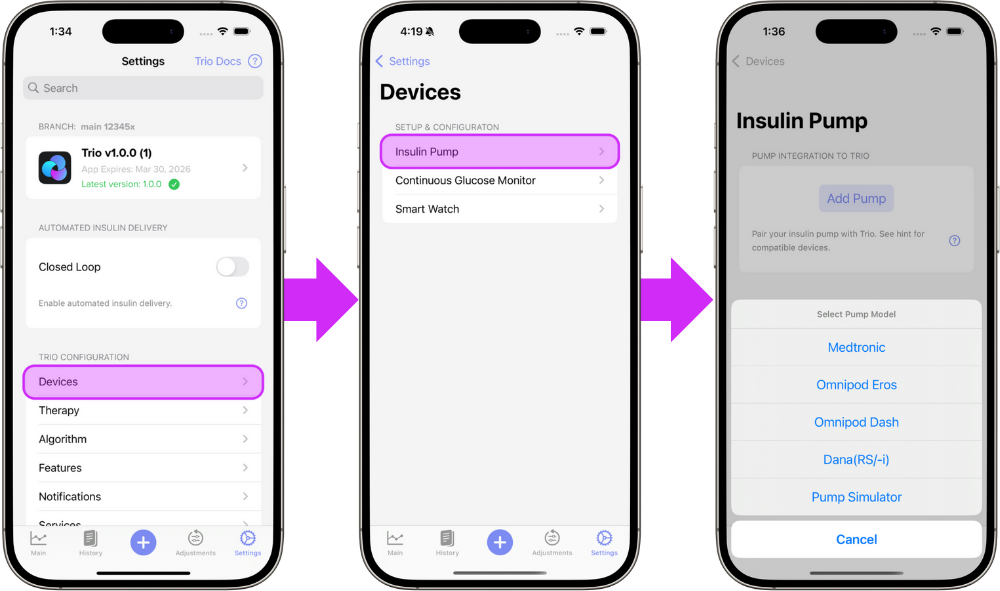
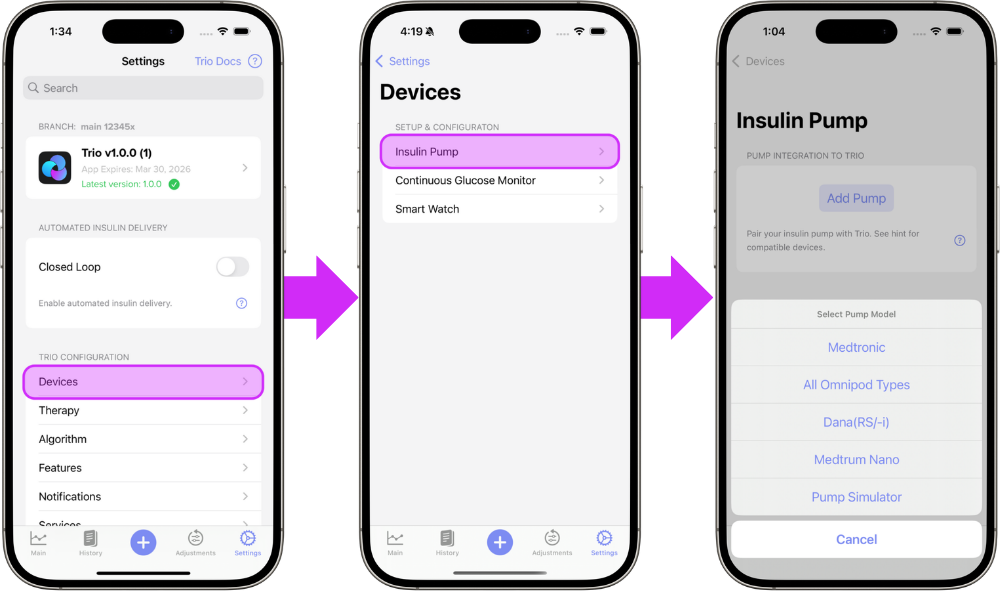
Add Missing Omnipod 5 information
- Adds Omnipod 5 reference to configuration/CompatibleDevices.md
- Adds Omnipod 5 section to configuration/settings/devices/pump.md
- Updates FAQs
- Adds Omnipod 5 to usage/concepts/basal-rates.md
- Adds images for Omnipod 5 setup instructions

diff --git a/docs/configuration/settings/devices/pump.md b/docs/configuration/settings/devices/pump.md
@@ -11,10 +11,13 @@ The first step in setting up your insulin pump on Trio is to tap the "Add Pump" 
 ## Step 2: Select Your Pump
 Select your pump from the in-app menu and from the options below for step-by-step instructions. The links below will guide you through the connection instructions for your specific pump.
  
-- [Medtronic](#medtronic)  
-- [Omnipod Eros](#omnipod-eros)  
-- [Omnipod Dash](#omnipod-dash)  
-- [Dana(RS/-i)](#danars-i)  
+- [Medtronic](#medtronic) 
+- [All Omnipod Types](#all-omnipod-types) 
+   - [Omnipod Eros](#omnipod-eros)  
+   - [Omnipod Dash](#omnipod-dash)  
+   - [Omnipod 5](#omnipod-5)
+- [Dana(RS/-i)](#danars-i)
+- [Medtrum Nano](#medtrum-nano)  
 - [Pump Simulator](#pump-simulator)  
     
 - - -
@@ -48,32 +51,40 @@ Continue to [Connect CGM](cgm.md) _OR_ return to [New User Setup](../../new-user
 
 - - -
 
-### Omnipod Eros
+### All Omnipod Types
 **Step 3**
+Select which Omnipod type you will use with Trio
+
+![All Omnipod Types Screen 1](img/select_omnipod_type.png){ width="300px"  }
+{align=center}
+
+#### Omnipod Eros
+
+**Step 4**
 Begin the process of configuring your Eros pod by tapping the blue "Continue" button at the bottom
 
 ![Eros Screen 1](img/1_eros_dash_pod_setup.png){ width="300px"  }
 {align=center}
 
-**Step 4**
+**Step 5**
 Choose the expiration reminder that you prefer and tap "Next"
 
 ![Eros Screen 2](img/2_eros_dash_pod_expiration.png){ width="300px"  }
 {align=center}
 
-**Step 5**
+**Step 6**
 Choose the low reservoir reminder that you prefer and tap "Next"
 
 ![Eros Screen 3](img/3_eros_dash_pod_low_res.png){ width="300px"  }
 {align=center}
 
-**Step 6**
+**Step 7**
 Choose your insulin type and tap "Continue"
 
 ![Eros Screen 4](img/4_eros_dash_pod_insulin_type.png){ width="300px"  }
 {align=center}
 
-**Step 7**
+**Step 8**
 Connect your RileyLink, OrangeLink, or EmaLink and tap "Continue"
 
 ![Eros Screen ](img/5_eros_pod_link_setup.png){ width="300px"  }
@@ -84,34 +95,87 @@ Continue to [Connect CGM](cgm.md) _OR_ return to [New User Setup](../../new-user
 
 - - -
 
-### Omnipod Dash
-**Step 3**
+#### Omnipod Dash
+**Step 4**
 Begin the process of configuring your Dash pod by tapping the blue "Continue" button at the bottom
 
-![Eros Screen 1](img/1_eros_dash_pod_setup.png){ width="300px"  }
-{align=center}
-
-**Step 4**
-Choose the expiration reminder that you prefer and tap "Next"
-
-![Eros Screen 2](img/2_eros_dash_pod_expiration.png){ width="300px"  }
+![Dash Screen 1](img/1_eros_dash_pod_setup.png){ width="300px"  }
 {align=center}
 
 **Step 5**
-Choose the low reservoir reminder that you prefer and tap "Next"
+Choose the expiration reminder that you prefer and tap "Next"
 
-![Eros Screen 3](img/3_eros_dash_pod_low_res.png){ width="300px"  }
+![Dash Screen 2](img/2_eros_dash_pod_expiration.png){ width="300px"  }
 {align=center}
 
 **Step 6**
-Choose your insulin type and tap "Continue"
+Choose the low reservoir reminder that you prefer and tap "Next"
 
-![Eros Screen 4](img/4_eros_dash_pod_insulin_type.png){ width="300px"  }
+![Dash Screen 3](img/3_eros_dash_pod_low_res.png){ width="300px"  }
 {align=center}
 
 **Step 7**
+Choose your insulin type and tap "Continue"
+
+![Dash Screen 4](img/4_eros_dash_pod_insulin_type.png){ width="300px"  }
+{align=center}
+
+**Step 8**
 Continue to [Connect CGM](cgm.md) _OR_ return to [New User Setup](../../new-user-setup.md)
 
+- - -
+
+#### Omnipod 5
+**Step 4**
+Begin the process of configuring your Omnipod 5 pod by selecting Omnipod 5 and tap the purple "Continue" button
+
+![O5 Screen 1](img/1_o5_setup.png){ width="300px"  }
+{align=center}
+
+**Step 5**
+Choose the expiration reminder that you prefer and tap "Next"
+
+![O5 Screen 2](img/2_o5_expiration){ width="300px"  }
+{align=center}
+
+**Step 6**
+Choose the low reservoir reminder that you prefer and tap "Next"
+
+![O5 Screen 3](img/3_o5_low_res.png){ width="300px"  }
+{align=center}
+
+**Step 7**
+Choose your insulin type and tap "Continue"
+
+![O5 Screen 4](img/4_o5_insulin_type.png){ width="300px"  }
+{align=center}
+
+**Step 8**
+Omnipod 5 requires a certificate to be pulled from a database online. This step requires internet access, but only for the very first Omnipod 5 pod. All future pods will not need this step or internet connection.
+
+![O5 Screen 5](img/5_o5_get_cert.png){ width="600px"  }
+{align=center}
+
+**Step 9**
+Follow the on-screen instructions to pair your Omnipod 5 pod
+
+![O5 Screen 6](img/6_pair_o5_pod.png){ width="600px"  }
+{align=center}
+
+**Step 10**
+Proceed through the steps to insert the cannula
+
+![O5 Screen 7](img/7_o5_insert_cannula.png){ width="600px"  }
+{align=center}
+
+**Step 11**
+Setup complete!
+
+![O5 Screen 8](img/o5_setup_complete.png){ width="600px"  }
+{align=center}
+
+**Step 12**
+Continue to [Connect CGM](cgm.md) _OR_ return to [New User Setup](../../new-user-setup.md)
 - - -
 
 ### Dana(RS/-i)
@@ -147,6 +211,12 @@ Select your pump from the list of found pumps
 
 **Step 8**
 Continue to [Connect CGM](cgm.md) _OR_ return to [New User Setup](../../new-user-setup.md)
+
+- - -
+
+### Medtrum Nano
+
+!!! info "Setup Instructions Coming Soon"
 
 - - -
 

diff --git a/docs/help/faq.md b/docs/help/faq.md
@@ -183,7 +183,7 @@ Trio can’t determine the glucose value when over 400mg/dL (22.2 mmol/L). This 
 
 ### What Pods work with Trio?
 
-You can use DASH and Eros Omnipod Pods with the Loop app. You cannot use Omnipod 5 Pods. 
+All 3 pod types are compatible with Trio. You can use Eros, Dash, or Omnipod 5 pods. 
 
 ### Do I still need a PDM with Trio?
 
@@ -195,8 +195,9 @@ In other words, your PDM can stay in the diabetes closet while you are Looping. 
 
 There is more communication between your phone and the Pod than the PDM, which increases the load on the Pod battery. Most people have no increase in Pod failures. However, it does occasionally happen. Below are some tips to **limit battery drain:**
 
-* The Pod state is updated every 3 minutes for DASH and every 5 minutes for Eros. If uncertain communications are detected, such that Trio cannot determine if a dosing command sent to the Pod was received, the app will try once a minute to get a response.
+* The Pod state is updated every 3 minutes for DASH, every 5 minutes for Eros, and every 10 minutes for Omnipod 5. If uncertain communications are detected, such that Trio cannot determine if a dosing command sent to the Pod was received, the app will try once a minute to get a response.
 * If using Eros Pods with a RileyLink device. Be mindful of situations that may lead to a poor signal. Poor communication between devices may lead to battery drain and contribute to faults.
+* Omnipod 5 does not currently provide a heartbeat, so it is essential that your cgm offer this so Trio can run in the background.
 
 
 ## CGM FAQs

diff --git a/docs/configuration/CompatibleDevices.md b/docs/configuration/CompatibleDevices.md
@@ -18,11 +18,12 @@ Follow this [link](../install/build/requirements/devices/iphone.md#ios-version-a
 
 - [Medtronic](settings/devices/pump.md#medtronic)  
 - [Omnipod Eros](settings/devices/pump.md#omnipod-eros)  
-- [Omnipod Dash](settings/devices/pump.md#omnipod-dash)  
+- [Omnipod Dash](settings/devices/pump.md#omnipod-dash)
+- [Omnipod 5](settings/devices/pump.md#omnipod-5)  
 - [Dana(RS/-i)](settings/devices/pump.md#danars-i)  
 - [Pump Simulator](settings/devices/pump.md#pump-simulator)  
-- _Medtrum (in testing)_  
-- _Tandem Mobi (in early development)_   
+- [Medtrum Nano](settings/devices/pump.md#medtrum-nano)  
+- _Tandem Mobi (in development)_   
 
 - - -
 

diff --git a/docs/usage/concepts/basal-rates.md b/docs/usage/concepts/basal-rates.md
@@ -76,7 +76,7 @@ The allowed basal rate range depends on your insulin pump:
 | Pump Type | Minimum<br>(U/hr) | Maximum<br>(U/hr) | Increment<br>(U/hr) |
 |-----------|---------|---------|-----------|
 | Dana | 0.0 | 3.0 | 0.05 |
-| Omnipod DASH | 0.0 | 30.0 | 0.05 |
+| Omnipod DASH & Omnipod 5 | 0.0 | 30.0 | 0.05 |
 | Omnipod Eros | 0.05 | 30.0 | 0.05 |
 | MiniMed x15 & x22 | 0.0 | 35.0 | 0.05 (0-10)<br>0.1 (10-35) |
 | MiniMed x23 & x54 | 0.0 | 35.0 | 0.025 (0-1)<br>0.05 (1-10)<br>0.1 (10-35) |
